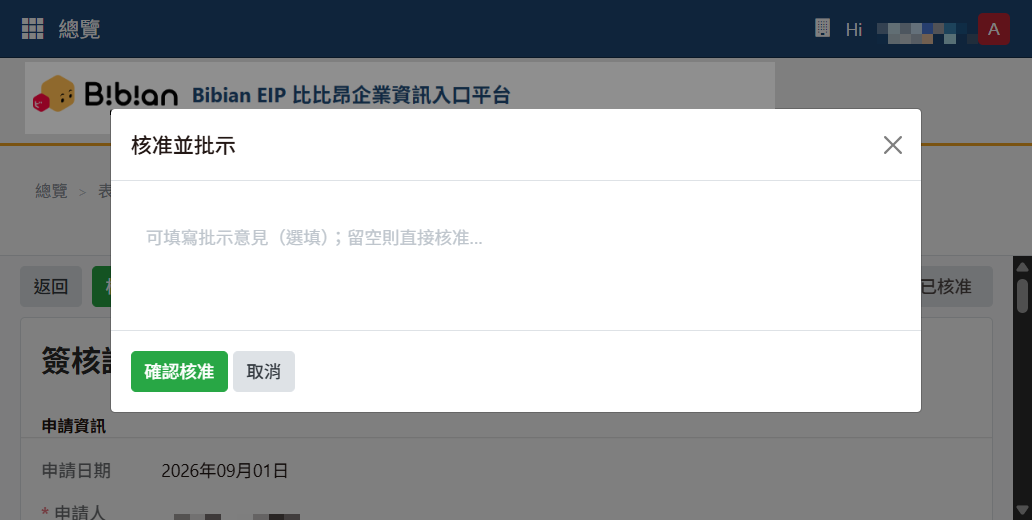
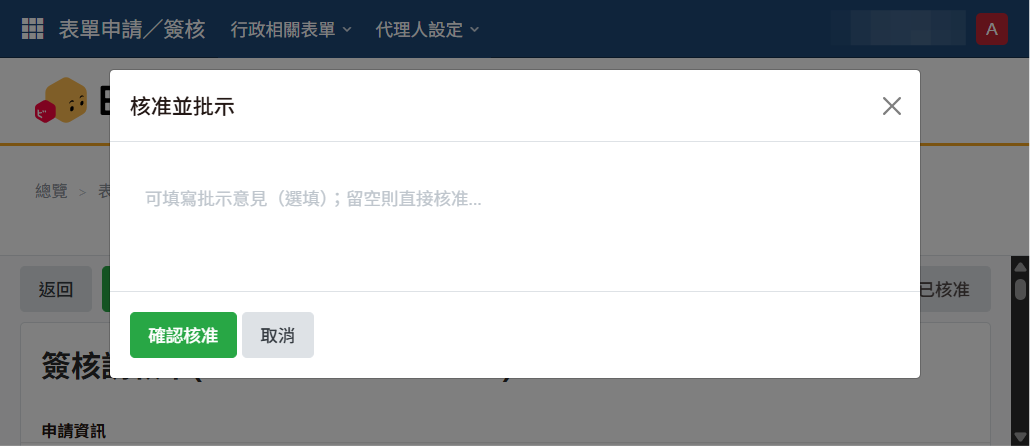
Bibian EIP 比比昂企業資訊入口平台

diff --git a/manual/index.html b/manual/index.html
@@ -232,6 +232,15 @@
     .toc { position: static; width: auto; padding: 20px 24px 0; }
     .content { padding: 20px 24px 60px; }
   }
+  .shot-pair {
+    display: grid;
+    grid-template-columns: repeat(auto-fit, minmax(320px, 1fr));
+    gap: 18px;
+    margin: 14px 0 20px;
+  }
+  .shot-pair figure { margin: 0; min-width: 0; }
+  .shot-pair .shot { margin: 0 0 7px; }
+  .shot-pair figcaption { color: var(--text-gray); font-size: 12px; text-align: center; }
 </style>
 </head>
 <body>
@@ -263,7 +272,7 @@
 <section id="s1"><h2>登入系統</h2><p class="section-desc">使用正式環境前，請先連線 NetBird VPN，再使用公司 Google 帳號登入。</p><h3 id="s1-1">2.1 連線公司環境（安裝 NetBird VPN）</h3><p>無論使用公司內部或外部網路，皆須先開啟 NetBird，並確認連線狀態顯示為「Connected」。</p><img alt="NetBird VPN 已連線畫面" class="shot shot-vpn" src="images/00-vpn-connected.png"/><p><a class="document-link" href="docs/netbird-setup-guide.pdf" target="_blank" rel="noopener">開啟 NetBird 連線設定教學（PDF）</a></p><div class="note"><b>連線提醒：</b>若 NetBird 未顯示「Connected」，可能無法開啟 Bibian EIP。請先重新連線；仍無法使用時，請聯絡系統管理員。</div><h3 id="s1-2">2.2 登入 Bibian EIP</h3><p>開啟 Bibian EIP 登入頁面後，請使用公司 Google 帳號登入。</p><img alt="登入頁" class="shot" src="images/01-login.png"/><ol><li>點擊「使用 Google 登入」。</li><li>選擇或驗證公司的 Google 帳號。</li><li>驗證完成後，系統將自動進入「總覽」頁面。</li></ol><p>若無法登入，請聯絡系統管理員協助處理。</p></section>
 <section id="s2"><h2>系統導覽</h2><p class="section-desc">登入後，可透過頁面上方的導覽列快速切換功能。</p><h3>3.1 切換主要功能</h3><p>點擊左上角九宮格圖示，可切換「總覽」及「表單申請／簽核」。</p><img alt="九宮格選單" class="shot shot-nav" src="images/02-main-menu.png"/><h3>3.2 切換子功能</h3><p>將滑鼠移至導覽列的功能分類，例如「行政相關表單」，即可展開子選單。點擊「請款單管理」後，可進入對應的操作頁面。</p><img alt="子選單展開" class="shot shot-nav" src="images/03-sub-menu.png"/><h3>3.3 確認目前位置</h3><p>Logo 下方的麵包屑會顯示目前所在位置，例如「總覽 &gt; 表單申請／簽核 &gt; 行政相關表單 &gt; 請款單管理」，可協助確認目前操作頁面。</p><h3>3.4 使用者選單</h3><p>點擊右上角的使用者名稱，可開啟使用者選單並登出系統。實際顯示功能會依帳號權限而有所不同。</p></section>
 <section id="s3"><h2>總覽頁面</h2><p class="section-desc">登入後會先進入「總覽」，可快速查看與自己相關的申請及待簽核事項。</p><a class="image-link" href="images/04-dashboard.png" target="_blank" rel="noopener" title="開啟原尺寸圖片"><img alt="總覽頁面" class="shot" src="images/04-dashboard.png"/></a><h3>行政表單－我的申請</h3><ul><li><b>簽核申請中：</b>已送出，目前仍在簽核流程中的申請。</li><li><b>退回待處理：</b>遭退回，等待自己修改後重新送出的申請。</li><li><b>近 14 天已核准：</b>最近 14 天內完成核准的申請。</li></ul><h3>行政表單－簽核作業</h3><ul><li><b>待我簽核：</b>目前等待自己處理的表單。</li></ul><p>卡片上的數字代表目前符合該狀態的表單筆數。點擊卡片，可前往對應的請款單列表查看資料。</p><p>頁面下方的「Bibian EIP 比比昂企業資訊入口平台—操作說明手冊」可開啟本操作手冊。</p></section>
-<section id="s4"><h2>請款單管理</h2><h3 id="s4-1">5.1 請款簽核流程與通知說明</h3><p>請款單送出後，系統會依申請金額及簽核規則，依序送交申請人直屬主管、CBS 副總經理、集團總經理及財務單位處理。未達指定金額門檻時，系統會略過對應的簽核關卡。</p><p>流程送出、退回、核准、撤回或到達待簽核關卡時，系統會寄送 Email 通知相關人員。</p><a class="image-link" href="images/05-approval-flow.png" target="_blank" rel="noopener" title="開啟原尺寸流程圖"><img alt="CBS 請款簽核流程與 Email 通知說明" class="shot" src="images/05-approval-flow.png"/></a><p class="shot-caption">點擊圖片可另開原尺寸流程圖。</p><h3 id="s4-2">5.2 請款單管理列表</h3><p class="section-desc">可在此新增請款單、追蹤自己的申請進度，或處理等待自己簽核的表單。</p><p><b>進入方式：</b>「行政相關表單 ▾」→「請款單管理」。</p><a class="image-link" href="images/06-purchase-list.png" target="_blank" rel="noopener" title="開啟原尺寸圖片"><img alt="請款單管理列表" class="shot" src="images/06-purchase-list.png"/></a><h4>頁籤說明</h4><ul><li><b>我的申請單：</b>查看自己建立的請款單及目前處理進度。</li><li><b>待簽核表單：</b>查看目前等待自己簽核的請款單。</li><li><b>已簽核表單：</b>查看自己曾經處理過的簽核表單。</li><li><b>全部表單：</b>依帳號權限查看目前可存取的全部請款單。</li></ul><h4>查詢資料</h4><p>可依畫面提供的條件篩選資料。輸入條件後點擊「查詢」；如要重新設定條件，點擊「清除」即可。</p><h4>常用操作</h4><ul><li><b>編輯：</b>修改可編輯的申請單內容。</li><li><b>簽核：</b>進入目前等待自己處理的表單。</li><li><b>查看：</b>查看表單內容及簽核紀錄。</li><li><b>列印：</b>列印該筆表單。</li><li><b>複製：</b>以既有資料建立一張新的表單。</li></ul><div class="note"><b>撤回：</b>已送出但第一關尚未完成簽核時，可勾選表單後撤回。<br/><b>刪除：</b>尚未送出簽核的草稿，可勾選後刪除。</div><h3 id="s4-3">5.3 新增／維護請款單 <span class="role-tag role-applicant">申請人</span></h3><p>點擊列表右上角「＋新增」，即可建立新的請款單。</p><a class="image-link" href="images/07-purchase-form.png" target="_blank" rel="noopener" title="開啟原尺寸圖片"><img alt="新增請款單頁面" class="shot" src="images/07-purchase-form.png"/></a><h4>填寫步驟</h4><ol><li>確認申請人、申請單位及申請日期。</li><li>選擇請款公司、支出科目及付款方式。</li><li>如付款方式為匯款，依畫面選擇匯款帳戶類型與付款對象，並確認匯款資料。</li><li>選擇手續費負擔方式。</li><li>依請款內容填寫發票號碼、請款明細，並視需要上傳附件。</li><li>確認資料後，可點擊「儲存草稿」暫存，或點擊「送出簽核」進入簽核流程。</li></ol><div class="note"><b>附件提醒：</b>請依請款內容檢附相關附件。單據請確認載有公司全銜、統一編號，並加蓋對方之統一發票專用章或免用統一發票專用章。</div><h4>退回後修改</h4><p>若申請單遭退回，可至「我的申請單」開啟該筆資料，依簽核意見完成修改後再次送出。</p><h3 id="s4-4">5.4 請款單簽核 <span class="role-tag role-approver">簽核者</span></h3><p>表單詳細頁可查看目前的簽核關卡及完整簽核歷程，方便確認目前處理進度。</p><a class="image-link" href="images/08-approval-history.png" target="_blank" rel="noopener" title="開啟原尺寸圖片"><img alt="簽核關卡與簽核歷程" class="shot" src="images/08-approval-history.png"/></a><h4>簽核主管操作</h4><ol><li>收到 Email 通知後，可由系統「總覽」的「待我簽核」卡片，或「請款單管理」的「待簽核表單」頁籤，進入待處理的請款單。</li><li>找到要處理的表單，點擊「簽核」。</li><li>確認申請內容、請款明細及附件。</li><li>依實際情況選擇「核准本關」或退回方式。</li></ol><a class="image-link" href="images/09-approval-form.png" target="_blank" rel="noopener" title="開啟原尺寸圖片"><img alt="簽核請款單頁面" class="shot" src="images/09-approval-form.png"/></a><h4>核准與退回</h4><div class="table-scroll"><table class="approval-actions"><tr><th>操作</th><th>使用時機</th></tr><tr><td><b>核准本關</b></td><td>確認內容無誤，同意此筆申請。</td></tr><tr><td><b>退回（重新簽核）</b></td><td>請申請人修正；重新送出後，會由第一關重新進行簽核。</td></tr><tr><td><b>退回（僅本關重審）</b></td><td>僅供財務人員於最後資料審查階段使用。<br/>若退回原因不涉及請款金額異動，可使用此方式；申請人修正並重新送出後，將直接送回財務重審，無須重新經過前序簽核關卡。<br/>若涉及請款金額異動，請使用「退回（重新簽核）」。</td></tr></table></div><p>選擇操作後，依畫面填寫簽核意見或退回原因並確認送出。退回時須填寫退回原因，讓申請人了解需要修改的內容。</p><a class="image-link" href="images/10-approval-comment.png" target="_blank" rel="noopener" title="開啟原尺寸圖片"><img alt="簽核意見對話框" class="shot" src="images/10-approval-comment.png"/></a><div class="note"><b>核准後：</b>申請人請依後續作業通知列印請款單，並備妥相關附件及單據正本，送交財務單位辦理後續作業。</div></section><section id="s5"><h2>代理人設定</h2><h3 id="s5-1">6.1 我的代理人 <span class="role-tag role-approver">簽核者</span></h3><p>當您因休假、出差或其他原因無法親自處理簽核時，可事先設定代理人及代理期間。代理期間生效後，相關待簽核表單可由指定代理人協助處理。</p><p><b>進入方式：</b>「代理人設定 ▾」→「我的代理人」。</p><a class="image-link" href="images/11-my-delegate.png" target="_blank" rel="noopener" title="開啟原尺寸圖片"><img alt="我的代理人設定頁" class="shot" src="images/11-my-delegate.png"/></a><h4>設定方式</h4>
+<section id="s4"><h2>請款單管理</h2><h3 id="s4-1">5.1 請款簽核流程與通知說明</h3><p>請款單送出後，系統會依申請金額及簽核規則，依序送交申請人直屬主管、CBS 副總經理、集團總經理及財務單位處理。未達指定金額門檻時，系統會略過對應的簽核關卡。</p><p>流程送出、退回、核准、撤回或到達待簽核關卡時，系統會寄送 Email 通知相關人員。</p><a class="image-link" href="images/05-approval-flow.png" target="_blank" rel="noopener" title="開啟原尺寸流程圖"><img alt="CBS 請款簽核流程與 Email 通知說明" class="shot" src="images/05-approval-flow.png"/></a><p class="shot-caption">點擊圖片可另開原尺寸流程圖。</p><h3 id="s4-2">5.2 請款單管理列表</h3><p class="section-desc">可在此新增請款單、追蹤自己的申請進度，或處理等待自己簽核的表單。</p><p><b>進入方式：</b>「行政相關表單 ▾」→「請款單管理」。</p><a class="image-link" href="images/06-purchase-list.png" target="_blank" rel="noopener" title="開啟原尺寸圖片"><img alt="請款單管理列表" class="shot" src="images/06-purchase-list.png"/></a><h4>頁籤說明</h4><ul><li><b>我的申請單：</b>查看自己建立的請款單及目前處理進度。</li><li><b>待簽核表單：</b>查看目前等待自己簽核的請款單。</li><li><b>已簽核表單：</b>查看自己曾經處理過的簽核表單。</li><li><b>全部表單：</b>依帳號權限查看目前可存取的全部請款單。</li></ul><h4>查詢資料</h4><p>可依畫面提供的條件篩選資料。輸入條件後點擊「查詢」；如要重新設定條件，點擊「清除」即可。</p><h4>常用操作</h4><ul><li><b>編輯：</b>修改可編輯的申請單內容。</li><li><b>簽核：</b>進入目前等待自己處理的表單。</li><li><b>查看：</b>查看表單內容及簽核紀錄。</li><li><b>列印：</b>列印該筆表單。</li><li><b>複製：</b>以既有資料建立一張新的表單。</li></ul><div class="note"><b>撤回：</b>已送出但第一關尚未完成簽核時，可勾選表單後撤回。<br/><b>刪除：</b>尚未送出簽核的草稿，可勾選後刪除。</div><h3 id="s4-3">5.3 新增／維護請款單 <span class="role-tag role-applicant">申請人</span></h3><p>點擊列表右上角「＋新增」，即可建立新的請款單。</p><a class="image-link" href="images/07-purchase-form.png" target="_blank" rel="noopener" title="開啟原尺寸圖片"><img alt="新增請款單頁面" class="shot" src="images/07-purchase-form.png"/></a><h4>填寫步驟</h4><ol><li>確認申請人、申請單位及申請日期。</li><li>選擇請款公司、支出科目及付款方式。</li><li>如付款方式為匯款，依畫面選擇匯款帳戶類型與付款對象，並確認匯款資料。</li><li>選擇手續費負擔方式。</li><li>依請款內容填寫發票號碼、請款明細，並視需要上傳附件。</li><li>確認資料後，可點擊「儲存草稿」暫存，或點擊「送出簽核」進入簽核流程。</li></ol><div class="note"><b>附件提醒：</b>請依請款內容檢附相關附件。單據請確認載有公司全銜、統一編號，並加蓋對方之統一發票專用章或免用統一發票專用章。</div><h4>退回後修改</h4><p>若申請單遭退回，可至「我的申請單」開啟該筆資料，依簽核意見完成修改後再次送出。</p><h3 id="s4-4">5.4 請款單簽核 <span class="role-tag role-approver">簽核者</span></h3><p>表單詳細頁可查看目前的簽核關卡及完整簽核歷程，方便確認目前處理進度。</p><a class="image-link" href="images/08-approval-history.png" target="_blank" rel="noopener" title="開啟原尺寸圖片"><img alt="簽核關卡與簽核歷程" class="shot" src="images/08-approval-history.png"/></a><h4>簽核主管操作</h4><ol><li>收到 Email 通知後，可由系統「總覽」的「待我簽核」卡片，或「請款單管理」的「待簽核表單」頁籤，進入待處理的請款單。</li><li>找到要處理的表單，點擊「簽核」。</li><li>確認申請內容、請款明細及附件。</li><li>依實際情況選擇「核准本關」或退回方式。</li></ol><a class="image-link" href="images/09-approval-form.png" target="_blank" rel="noopener" title="開啟原尺寸圖片"><img alt="簽核請款單頁面" class="shot" src="images/09-approval-form.png"/></a><h4>核准與退回</h4><div class="table-scroll"><table class="approval-actions"><tr><th>操作</th><th>使用時機</th></tr><tr><td><b>核准本關</b></td><td>確認內容無誤，同意此筆申請。</td></tr><tr><td><b>退回（重新簽核）</b></td><td>請申請人修正；重新送出後，會由第一關重新進行簽核。</td></tr><tr><td><b>退回（僅本關重審）</b></td><td>僅供財務人員於最後資料審查階段使用。<br/>若退回原因不涉及請款金額異動，可使用此方式；申請人修正並重新送出後，將直接送回財務重審，無須重新經過前序簽核關卡。<br/>若涉及請款金額異動，請使用「退回（重新簽核）」。</td></tr></table></div><p>選擇操作後，依畫面填寫簽核意見或退回原因並確認送出。退回時須填寫退回原因，讓申請人了解需要修改的內容。</p><div class="shot-pair"><figure><a class="image-link" href="images/10-approval-comment.png" target="_blank" rel="noopener" title="開啟確認核准原尺寸圖片"><img alt="確認核准對話框" class="shot" src="images/10-approval-comment.png"/></a><figcaption>確認核准</figcaption></figure><figure><a class="image-link" href="images/10b-approval-reject.png" target="_blank" rel="noopener" title="開啟確認退回原尺寸圖片"><img alt="確認退回對話框" class="shot" src="images/10b-approval-reject.png"/></a><figcaption>確認退回</figcaption></figure></div><div class="note"><b>核准後：</b>申請人請依後續作業通知列印請款單，並備妥相關附件及單據正本，送交財務單位辦理後續作業。</div></section><section id="s5"><h2>代理人設定</h2><h3 id="s5-1">6.1 我的代理人 <span class="role-tag role-approver">簽核者</span></h3><p>當您因休假、出差或其他原因無法親自處理簽核時，可事先設定代理人及代理期間。代理期間生效後，相關待簽核表單可由指定代理人協助處理。</p><p><b>進入方式：</b>「代理人設定 ▾」→「我的代理人」。</p><a class="image-link" href="images/11-my-delegate.png" target="_blank" rel="noopener" title="開啟原尺寸圖片"><img alt="我的代理人設定頁" class="shot" src="images/11-my-delegate.png"/></a><h4>設定方式</h4>
 <ol>
 <li>於欲設定的公司區塊選擇「代理簽核者」。</li>
 <li>點擊「＋新增期間」，設定代理開始日與結束日。</li>
